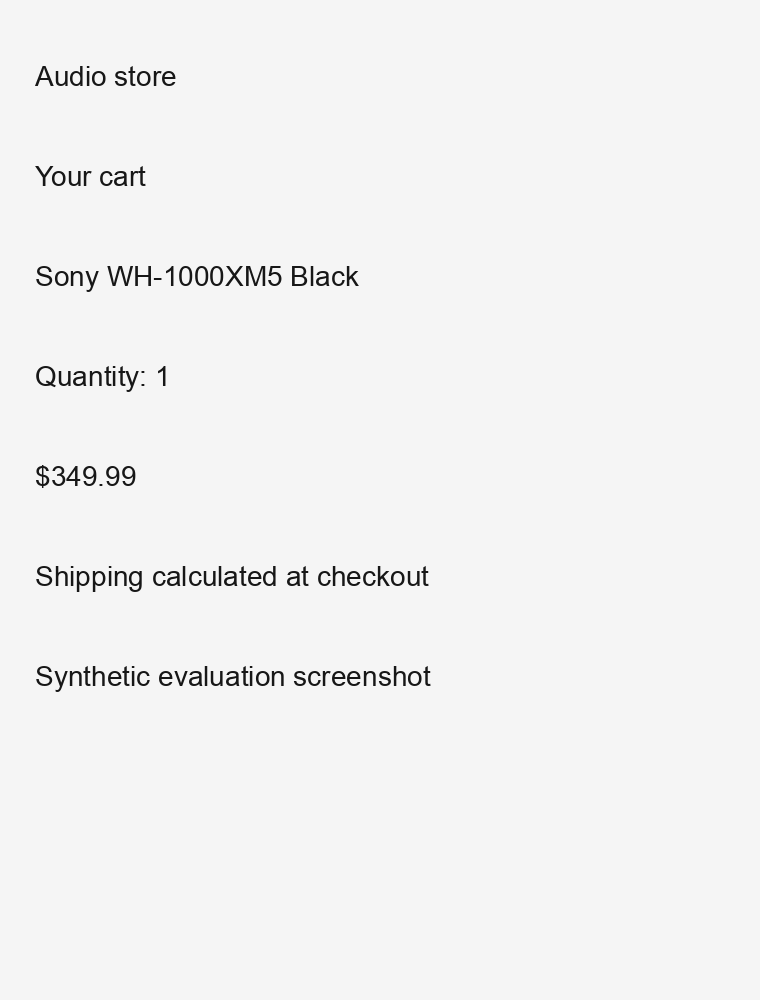
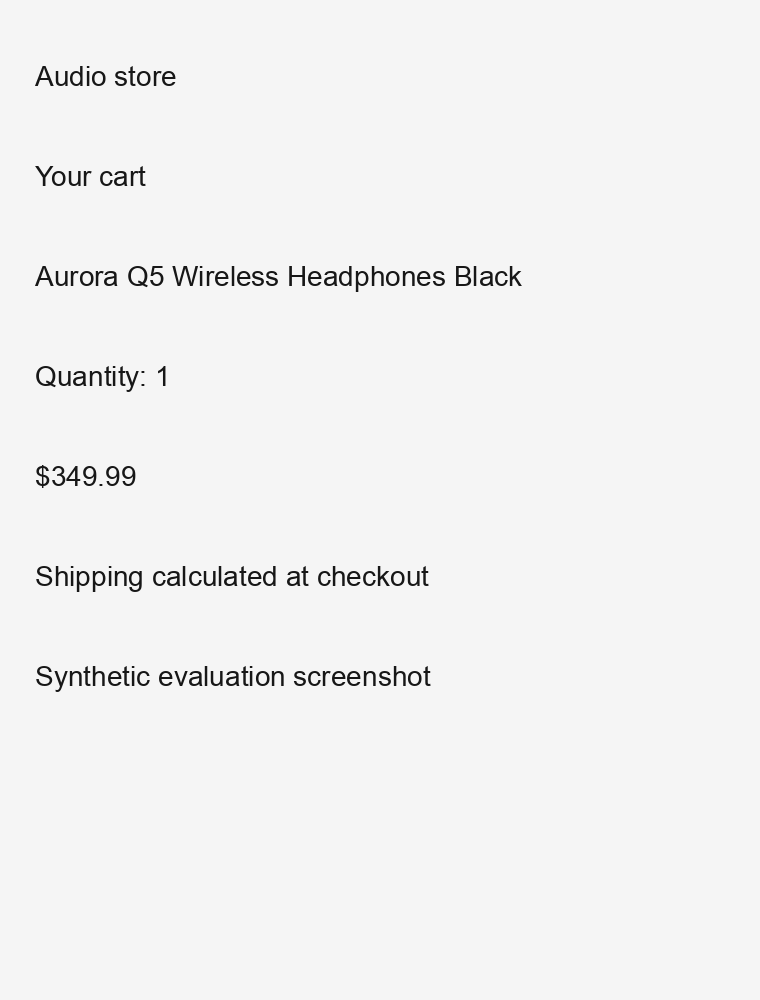
Show made-up brands in the sample screenshots instead of third-party marks
The five demo screenshots now show Aurora, Northwind and Breeze products, and
Aurora Q5 joins the matching catalogue so the headphones sample still matches.

Claude-Session: https://claude.ai/code/session_01NKEnRQVsNdKTwSso1rXcN4

Changed region(s): [[0.0303, 0.248, 0.6961, 0.31]]

diff --git a/evals/generate_samples.py b/evals/generate_samples.py
@@ -1,4 +1,6 @@
-"""Create synthetic shopping screenshots and explicit replay data; no model accuracy implied."""
+"""Create synthetic shopping screenshots and explicit replay data; no model accuracy implied.
+
+The brands are made up (Aurora, Northwind, Breeze) so no third-party mark appears in the demo."""
 
 import hashlib
 import json
@@ -16,9 +18,9 @@ font = (
 cases = [
     (
         "headphones",
-        "Sony WH-1000XM5 Black",
-        "Sony",
-        "WH-1000XM5",
+        "Aurora Q5 Wireless Headphones Black",
+        "Aurora",
+        "Q5",
         "Black",
         "349.99",
         "Audio store",
@@ -27,9 +29,9 @@ cases = [
     ),
     (
         "phone",
-        "Apple iPhone 16 128GB Black",
-        "Apple",
-        "iPhone 16",
+        "Northwind N16 Phone 128GB Black",
+        "Northwind",
+        "N16",
         "128GB Black",
         "799.00",
         "Phone store",
@@ -38,8 +40,8 @@ cases = [
     ),
     (
         "vacuum",
-        "Dyson V8 Cordless Vacuum",
-        "Dyson",
+        "Breeze V8 Cordless Vacuum",
+        "Breeze",
         "V8",
         "Cordless",
         "399.99",
@@ -49,9 +51,9 @@ cases = [
     ),
     (
         "unreadable",
-        "Sony WH-1000XM5 Black",
-        "Sony",
-        "WH-1000XM5",
+        "Aurora Q5 Wireless Headphones Black",
+        "Aurora",
+        "Q5",
         "Black",
         None,
         "Audio store",
@@ -60,9 +62,9 @@ cases = [
     ),
     (
         "non-usd",
-        "Sony WH-1000XM5 Black",
-        "Sony",
-        "WH-1000XM5",
+        "Aurora Q5 Wireless Headphones Black",
+        "Aurora",
+        "Q5",
         "Black",
         "299.00",
         "Audio store",

diff --git a/services/api/tests/test_durable_state.py b/services/api/tests/test_durable_state.py
@@ -90,8 +90,8 @@ def test_scan_bonus_only_for_matching_open_unexpired_bloc(monkeypatch):
     import time
 
     monkeypatch.setattr(settings, "scan_mode", "fixture")
-    b = make_bloc("match", "Sony WH-1000XM5 Black", Decimal("200"))
-    b.product_key = "sony-wh1000xm5-black"
+    b = make_bloc("match", "Aurora Q5 Black", Decimal("200"))
+    b.product_key = "aurora-q5-black"  # the sample screenshot's (made-up) product
     storage.get_store().create(b)
     case = json.loads((ROOT / "evals/fixtures.json").read_text())[0]
     data = (ROOT / "evals" / case["file"]).read_bytes()

diff --git a/services/api/tests/test_matching.py b/services/api/tests/test_matching.py
@@ -3,7 +3,7 @@ from maxx.scan import Item
 
 
 def test_exact_variant_and_uncertain_confirmation():
-    assert len(CATALOG) == 50
+    assert len(CATALOG) == 52
     exact = match_item(Item(title="Sony WH-1000XM5 Black", model="WH-1000XM5", variant="Black"))
     assert exact.candidates[0].product_key == "sony-wh1000xm5-black"
     assert not exact.requires_confirmation

diff --git a/services/api/maxx/matching.py b/services/api/maxx/matching.py
@@ -26,6 +26,7 @@ class Product(Contract):
 
 # Curated identity catalogue, not a price feed; each colour/storage is a separate SKU.
 MODELS = [
+    ("Aurora", "Q5"),  # made-up brand of the demo's sample screenshot (no third-party mark)
     ("Sony", "WH-1000XM5"),
     ("Sony", "WH-1000XM4"),
     ("Sony", "WF-1000XM5"),

diff --git a/services/api/tests/test_embedding.py b/services/api/tests/test_embedding.py
@@ -16,7 +16,7 @@ def test_injected_embedding_transport_variant_rules_and_bad_dimensions(monkeypat
         import json
 
         body = json.loads(request.content)
-        assert len(body["input"]) == 51
+        assert len(body["input"]) == 53
         return httpx.Response(
             200,
             json={
